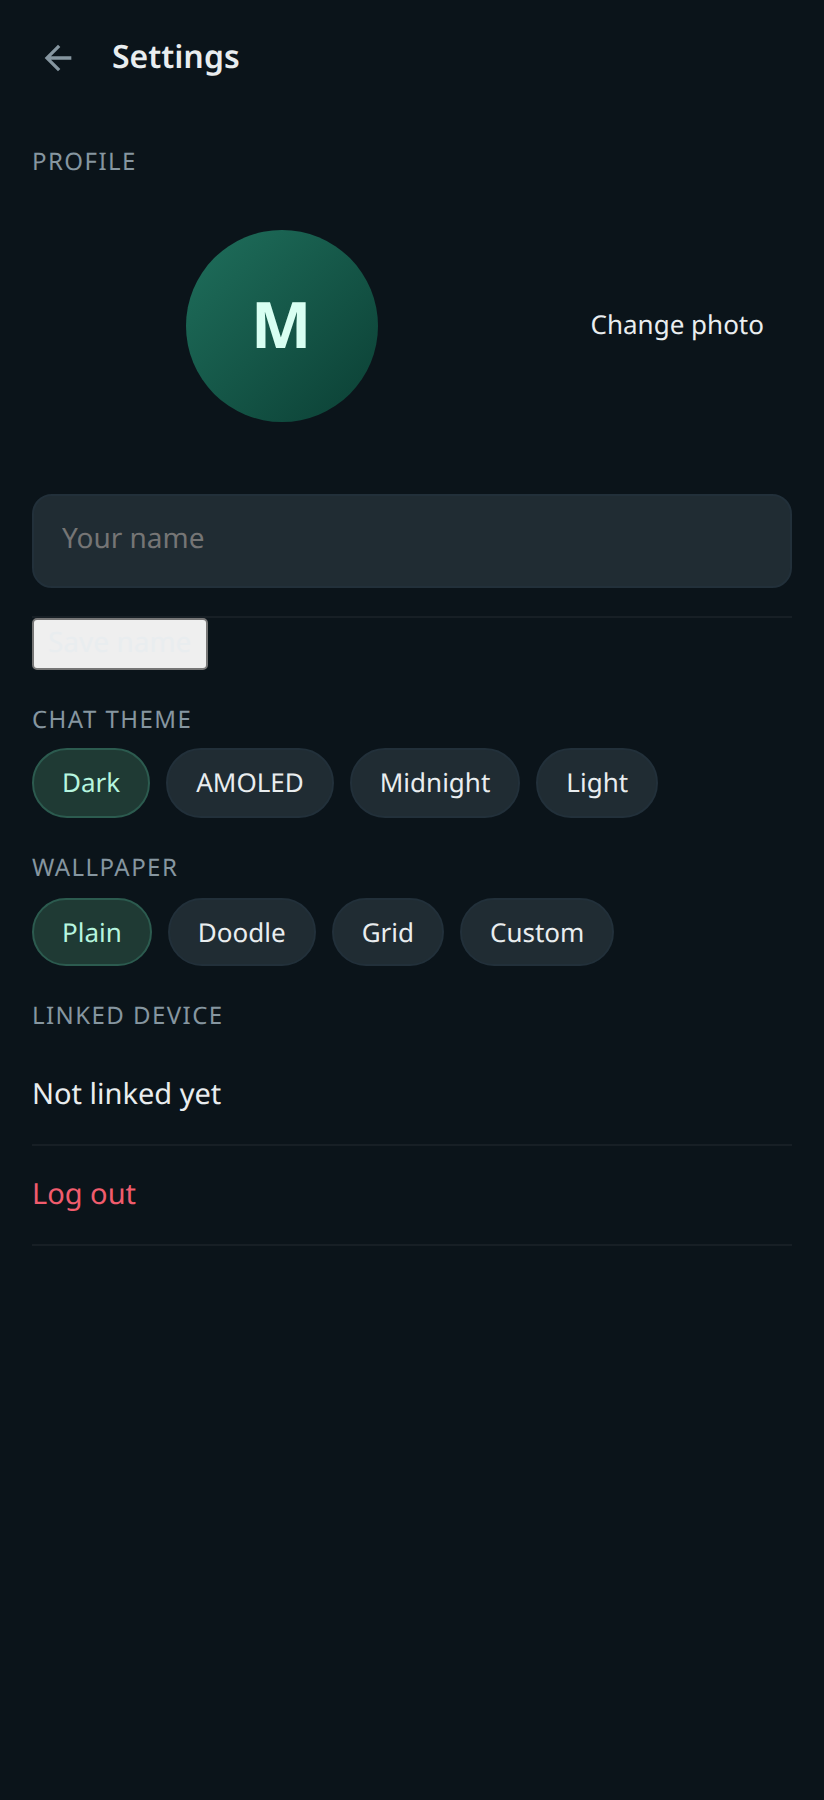
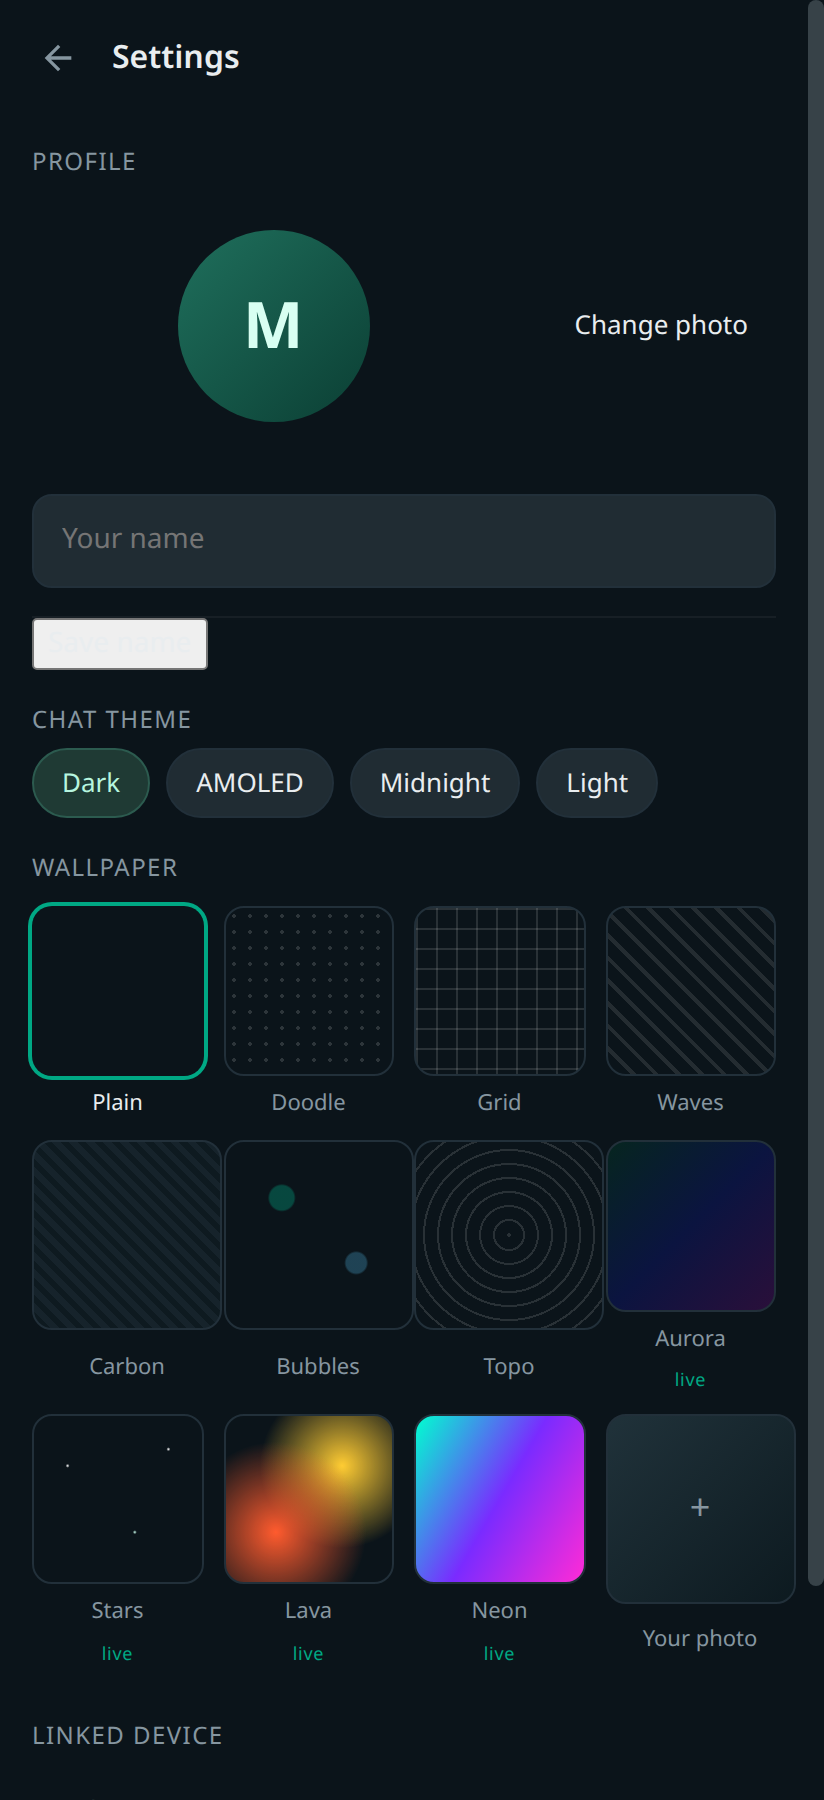
More wallpapers, including animated ones
Twelve choices: plain, doodle, grid, waves, carbon, bubbles, topo, plus four
live ones (aurora, stars, lava, neon) that animate the conversation background
and stop when the device asks for reduced motion. Restores the settings button
styling that the wallpaper rewrite stripped.

diff --git a/public/styles.css b/public/styles.css
@@ -516,23 +516,93 @@ body[data-theme="light"] .chat-row:hover { background:#f5f6f6; }
 body[data-theme="light"] .tab, body[data-theme="light"] .brand { color:#111b21; }
 body[data-theme="light"] .chat, body[data-theme="light"] .thread { background:#efeae2; }
 
-/* wallpapers */
-body[data-wall="doodle"] .thread {
-  background-image: radial-gradient(rgba(255,255,255,.045) 1px, transparent 1px);
-  background-size: 22px 22px;
+
+/* wallpaper gallery */
+.wall-grid { display: grid; grid-template-columns: repeat(4, 1fr); gap: 10px; padding: 4px 0 10px; }
+.wall {
+  display: grid; gap: 6px; justify-items: center; background: none; border: 0;
+  color: var(--muted); font: inherit; font-size: 11px; cursor: pointer; padding: 0;
 }
-body[data-wall="grid"] .thread {
-  background-image: linear-gradient(rgba(255,255,255,.035) 1px, transparent 1px),
-                    linear-gradient(90deg, rgba(255,255,255,.035) 1px, transparent 1px);
-  background-size: 28px 28px;
+.wall i { font-style: normal; font-size: 9px; color: var(--green); letter-spacing: .04em; }
+.wall .sw {
+  width: 100%; aspect-ratio: 1; border-radius: 10px; border: 1px solid var(--line);
+  background-color: #0b141a;
+}
+.wall.on .sw { box-shadow: 0 0 0 2px var(--green); border-color: transparent; }
+.wall.on { color: var(--text); }
+
+.sw-none { background: #0b141a; }
+.sw-doodle { background-image: radial-gradient(rgba(255,255,255,.14) 1px, transparent 1px); background-size: 8px 8px; }
+.sw-grid { background-image: linear-gradient(rgba(255,255,255,.12) 1px, transparent 1px), linear-gradient(90deg, rgba(255,255,255,.12) 1px, transparent 1px); background-size: 10px 10px; }
+.sw-waves { background-image: repeating-linear-gradient(45deg, rgba(255,255,255,.1) 0 2px, transparent 2px 8px); }
+.sw-carbon { background-image: repeating-linear-gradient(45deg, #16232b 0 3px, #0e1a20 3px 6px); }
+.sw-bubbles { background-image: radial-gradient(circle at 30% 30%, rgba(0,168,132,.35) 0 6px, transparent 7px), radial-gradient(circle at 70% 65%, rgba(83,189,235,.28) 0 5px, transparent 6px); }
+.sw-topo { background-image: repeating-radial-gradient(circle at 50% 50%, rgba(255,255,255,.12) 0 1px, transparent 1px 7px); }
+.sw-aurora { background: linear-gradient(135deg, #06251f, #0b1440, #2a0f3a); }
+.sw-stars { background: radial-gradient(1px 1px at 20% 30%, #fff, transparent), radial-gradient(1px 1px at 60% 70%, #cfe, transparent), radial-gradient(1px 1px at 80% 20%, #fff, transparent), #050a10; }
+.sw-lava { background: radial-gradient(circle at 30% 70%, #ff5b2e, transparent 55%), radial-gradient(circle at 70% 30%, #ffcc33, transparent 50%), #1a0603; }
+.sw-neon { background: linear-gradient(120deg, #00ffd0, #7a2bff, #ff2bd6); }
+.sw-photo { background: linear-gradient(135deg,#20323a,#0d1a20); position: relative; }
+.sw-photo::after { content: "+"; position: absolute; inset: 0; display: grid; place-items: center; font-size: 18px; color: var(--muted); }
+
+/* applied to the conversation */
+body[data-wall="doodle"] .thread { background-image: radial-gradient(rgba(255,255,255,.045) 1px, transparent 1px); background-size: 22px 22px; }
+body[data-wall="grid"] .thread { background-image: linear-gradient(rgba(255,255,255,.035) 1px, transparent 1px), linear-gradient(90deg, rgba(255,255,255,.035) 1px, transparent 1px); background-size: 28px 28px; }
+body[data-wall="waves"] .thread { background-image: repeating-linear-gradient(45deg, rgba(255,255,255,.035) 0 2px, transparent 2px 14px); }
+body[data-wall="carbon"] .thread { background: repeating-linear-gradient(45deg, #0f1a20 0 4px, #0b141a 4px 8px); }
+body[data-wall="bubbles"] .thread {
+  background-image: radial-gradient(circle at 18% 22%, rgba(0,168,132,.10) 0 60px, transparent 61px),
+                    radial-gradient(circle at 78% 68%, rgba(83,189,235,.08) 0 48px, transparent 49px),
+                    radial-gradient(circle at 45% 88%, rgba(255,255,255,.05) 0 36px, transparent 37px);
+}
+body[data-wall="topo"] .thread { background-image: repeating-radial-gradient(circle at 50% 40%, rgba(255,255,255,.05) 0 1px, transparent 1px 26px); }
+
+body[data-wall="aurora"] .thread {
+  background: linear-gradient(125deg, #041f1a, #071033, #22093a, #041f1a);
+  background-size: 400% 400%;
+  animation: aurora 22s ease-in-out infinite;
+}
+@keyframes aurora { 0%,100% { background-position: 0% 50%; } 50% { background-position: 100% 50%; } }
+
+body[data-wall="stars"] .thread {
+  background-color: #050a10;
+  background-image:
+    radial-gradient(1.4px 1.4px at 12% 18%, #fff, transparent),
+    radial-gradient(1.2px 1.2px at 68% 42%, #cfe9ff, transparent),
+    radial-gradient(1.6px 1.6px at 38% 78%, #fff, transparent),
+    radial-gradient(1px 1px at 84% 86%, #bcd, transparent),
+    radial-gradient(1.2px 1.2px at 52% 12%, #fff, transparent);
+  background-size: 220px 220px, 260px 260px, 300px 300px, 340px 340px, 400px 400px;
+  animation: stars 90s linear infinite;
+}
+@keyframes stars { from { background-position: 0 0, 0 0, 0 0, 0 0, 0 0; } to { background-position: 220px 440px, -260px 520px, 300px -600px, -340px 680px, 400px 800px; } }
+
+body[data-wall="lava"] .thread {
+  background: radial-gradient(circle at 25% 75%, rgba(255,90,40,.35), transparent 55%),
+              radial-gradient(circle at 75% 25%, rgba(255,190,60,.22), transparent 50%),
+              #140705;
+  background-size: 180% 180%;
+  animation: lava 18s ease-in-out infinite;
+}
+@keyframes lava { 0%,100% { background-position: 0% 0%; } 50% { background-position: 100% 100%; } }
+
+body[data-wall="neon"] .thread {
+  background: linear-gradient(120deg, rgba(0,255,208,.18), rgba(122,43,255,.18), rgba(255,43,214,.18), rgba(0,255,208,.18));
+  background-size: 300% 300%;
+  animation: neon 16s linear infinite;
+}
+@keyframes neon { to { background-position: 300% 0; } }
+
+@media (prefers-reduced-motion: reduce) {
+  body[data-wall] .thread { animation: none !important; }
 }
 
+/* settings actions */
 #settings .btn, #set-save-name {
   background: var(--green); color: #04120d; border: 0; border-radius: 10px;
   padding: 11px 16px; font: inherit; font-weight: 700; width: 100%; cursor: pointer;
 }
 #settings .btn.small, #settings label.btn {
-  width: auto; padding: 8px 14px; font-size: 13px; background: var(--rail-2); color: var(--text);
-  border: 1px solid var(--line); border-radius: 999px; font-weight: 600;
+  width: auto; padding: 8px 14px; font-size: 13px; background: var(--rail-2);
+  color: var(--text); border: 1px solid var(--line); border-radius: 999px; font-weight: 600;
 }
-#settings .set-profile { justify-content: space-between; padding-right: 6px; }

diff --git a/public/index.html b/public/index.html
@@ -129,11 +129,19 @@
       </div>
 
       <div class="gp-sec">Wallpaper</div>
-      <div class="chip-row" id="walls">
-        <button class="chip" data-wall="none">Plain</button>
-        <button class="chip" data-wall="doodle">Doodle</button>
-        <button class="chip" data-wall="grid">Grid</button>
-        <label class="chip" for="set-wall">Custom</label>
+      <div class="wall-grid" id="walls">
+        <button class="wall on" data-wall="none"><span class="sw sw-none"></span>Plain</button>
+        <button class="wall" data-wall="doodle"><span class="sw sw-doodle"></span>Doodle</button>
+        <button class="wall" data-wall="grid"><span class="sw sw-grid"></span>Grid</button>
+        <button class="wall" data-wall="waves"><span class="sw sw-waves"></span>Waves</button>
+        <button class="wall" data-wall="carbon"><span class="sw sw-carbon"></span>Carbon</button>
+        <button class="wall" data-wall="bubbles"><span class="sw sw-bubbles"></span>Bubbles</button>
+        <button class="wall" data-wall="topo"><span class="sw sw-topo"></span>Topo</button>
+        <button class="wall" data-wall="aurora"><span class="sw sw-aurora"></span>Aurora <i>live</i></button>
+        <button class="wall" data-wall="stars"><span class="sw sw-stars"></span>Stars <i>live</i></button>
+        <button class="wall" data-wall="lava"><span class="sw sw-lava"></span>Lava <i>live</i></button>
+        <button class="wall" data-wall="neon"><span class="sw sw-neon"></span>Neon <i>live</i></button>
+        <label class="wall" for="set-wall"><span class="sw sw-photo"></span>Your photo</label>
         <input type="file" id="set-wall" accept="image/*" hidden>
       </div>
 

diff --git a/public/app.js b/public/app.js
@@ -732,7 +732,7 @@
     const img = prefs.wallImage;
     els.thread.style.backgroundImage = prefs.wall === "custom" && img ? `url("${img}")` : "";
     for (const b of document.querySelectorAll("#themes .chip")) b.classList.toggle("is-on", b.dataset.theme === prefs.theme);
-    for (const b of document.querySelectorAll("#walls .chip[data-wall]")) b.classList.toggle("is-on", b.dataset.wall === prefs.wall);
+    for (const b of document.querySelectorAll("#walls .wall[data-wall]")) b.classList.toggle("on", b.dataset.wall === prefs.wall);
   }
 
   function openSettings() {

diff --git a/public/sw.js b/public/sw.js
@@ -1,5 +1,5 @@
 /* Shell cache only. Chats and media always come from the network. */
-const SHELL = "whatsweb-shell-v26";
+const SHELL = "whatsweb-shell-v27";
 const ASSETS = ["/", "/app.js", "/styles.css", "/manifest.webmanifest", "/icon-192.png", "/icon-512.png", "/fonts/sedgwick-ave-display.woff2"];
 
 self.addEventListener("install", (e) => {
